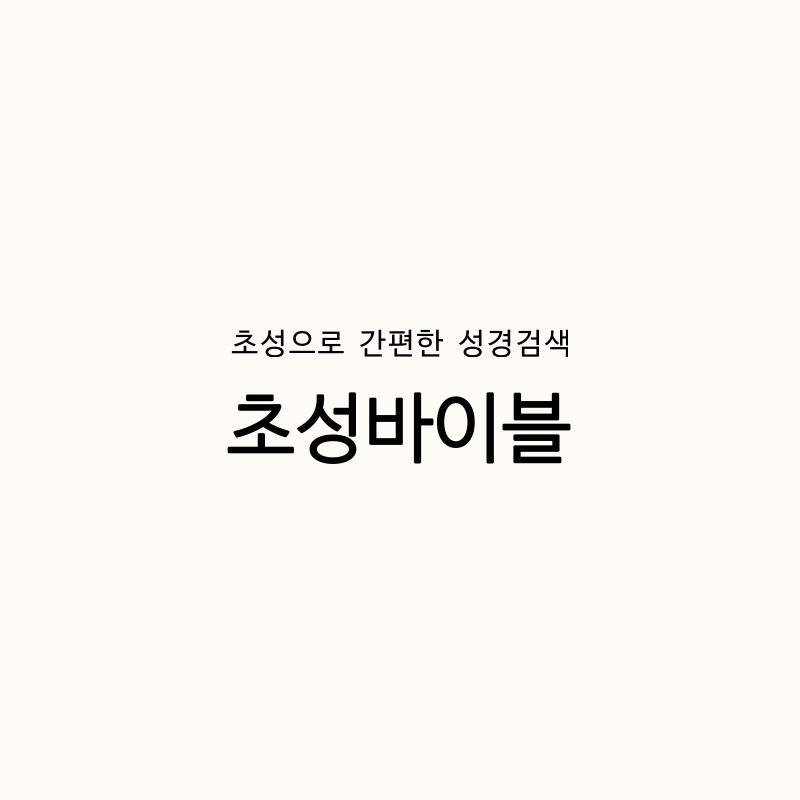
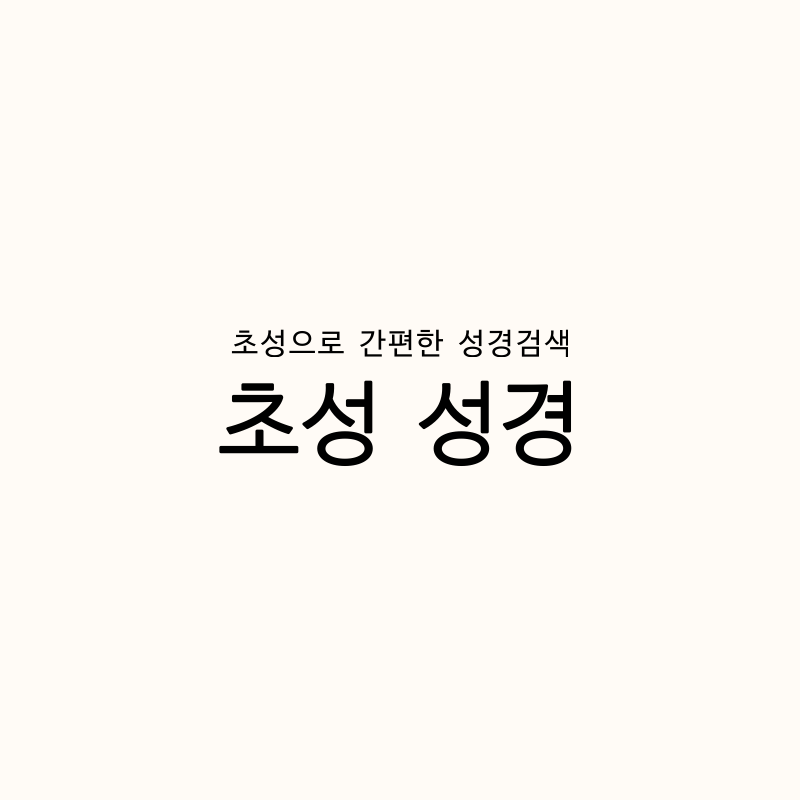
Change title

Changed region(s): [[0.2812, 0.4688, 0.7188, 0.5938]]

diff --git a/pages/index.vue b/pages/index.vue
@@ -2,7 +2,7 @@
   <section class="container">
     <b-row align-v="center">
       <b-col cols="12">
-        <h1 class="title">Chosung Bible</h1>
+        <h1 class="title">초성 성경</h1>
         <p class="subtitle mb-5">초성과 숫자로 간편하게 성경을 검색해보세요</p>
         <autocomplete
           class="el-autocomplete"
@@ -14,31 +14,48 @@
           @submit="handleAutocompleteSubmit"
         >
         </autocomplete>
-        <div class="area-review">
-          <b-button variant="primary" v-b-modal.modal-review
-            >의견남기기</b-button
-          >
-          <b-modal
-            id="modal-review"
-            title="의견남기기"
-            ok-title="전송"
-            cancel-title="취소"
-            @ok="handleOk"
-            @show="resetModal"
-            @hidden="resetModal"
-          >
-            <p>
-              소중한 의견을 보내주시면 다음 업데이트에 반영하도록 하겠습니다 :)
-            </p>
-            <form ref="form" @submit.prevent="handleReviewSubmit">
-              <b-form-textarea
-                id="textarea-review"
-                v-model="review"
-                rows="3"
-                max-rows="6"
-              ></b-form-textarea>
-            </form>
-          </b-modal>
+
+        <div class="notice-area">
+          <h2>안내사항</h2>
+          <ul>
+            <li>
+              모바일에서는 홈화면에 추가 기능을 통해 더욱 편리하게 사용할 수
+              있습니다.
+            </li>
+            <li>
+              사용 중 불편한 점 또는 원하는 기능이 있다면 자유롭게 보내주세요
+              :)<br />
+              <b-button
+                class="mt-2"
+                variant="primary"
+                size="sm"
+                v-b-modal.modal-review
+                >의견보내기</b-button
+              >
+              <b-modal
+                id="modal-review"
+                title="의견보내기"
+                ok-title="전송"
+                cancel-title="취소"
+                @ok="handleOk"
+                @show="resetModal"
+                @hidden="resetModal"
+              >
+                <p>
+                  소중한 의견을 보내주시면 다음 업데이트에 반영하도록 하겠습니다
+                  :)
+                </p>
+                <form ref="form" @submit.prevent="handleReviewSubmit">
+                  <b-form-textarea
+                    id="textarea-review"
+                    v-model="review"
+                    rows="3"
+                    max-rows="6"
+                  ></b-form-textarea>
+                </form>
+              </b-modal>
+            </li>
+          </ul>
         </div>
       </b-col>
       <b-col cols="12" class="dummy"></b-col>
@@ -255,18 +272,29 @@ export default {
 .area-review {
   max-width: 500px;
   margin: 0 auto;
-  padding: 20px 0 20px;
+  padding: 20px 0;
   text-align: right;
   color: #555;
   font-size: 0.9rem;
 }
 
-@media (max-width: 340px) {
-  .title {
-    font-size: 1.8rem;
-  }
-  .subtitle {
-    font-size: 0.9rem;
-  }
+.notice-area {
+  max-width: 500px;
+  margin: 50px auto;
+  padding: 10px 5px;
+}
+.notice-area h2 {
+  font-size: 1rem;
+}
+.notice-area ul {
+  padding: 0;
+  padding-left: 16px;
+}
+.notice-area li {
+  font-size: 0.8rem;
+  color: #999;
+}
+.notice-area li + li {
+  margin-top: 10px;
 }
 </style>
